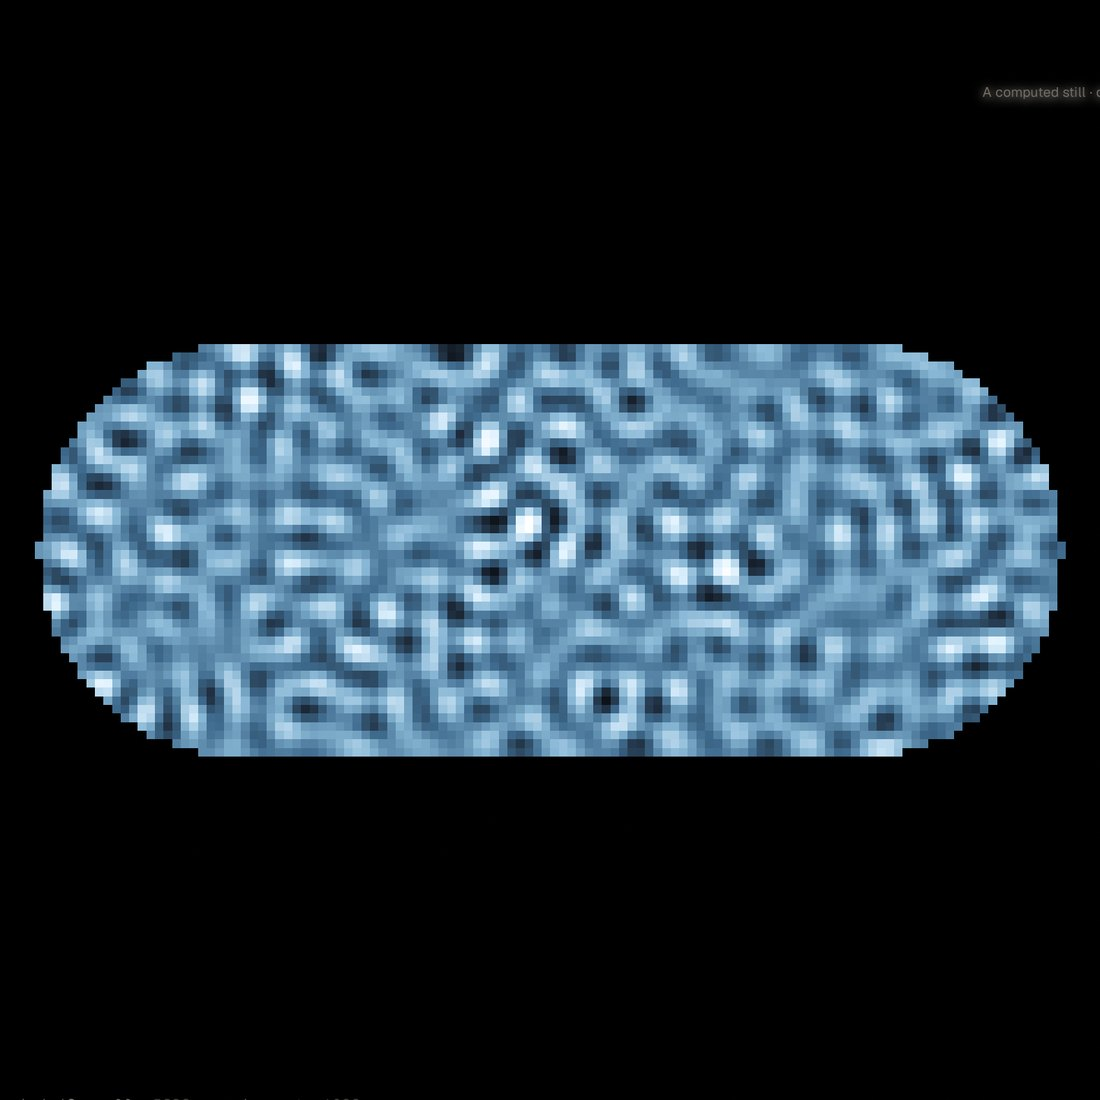
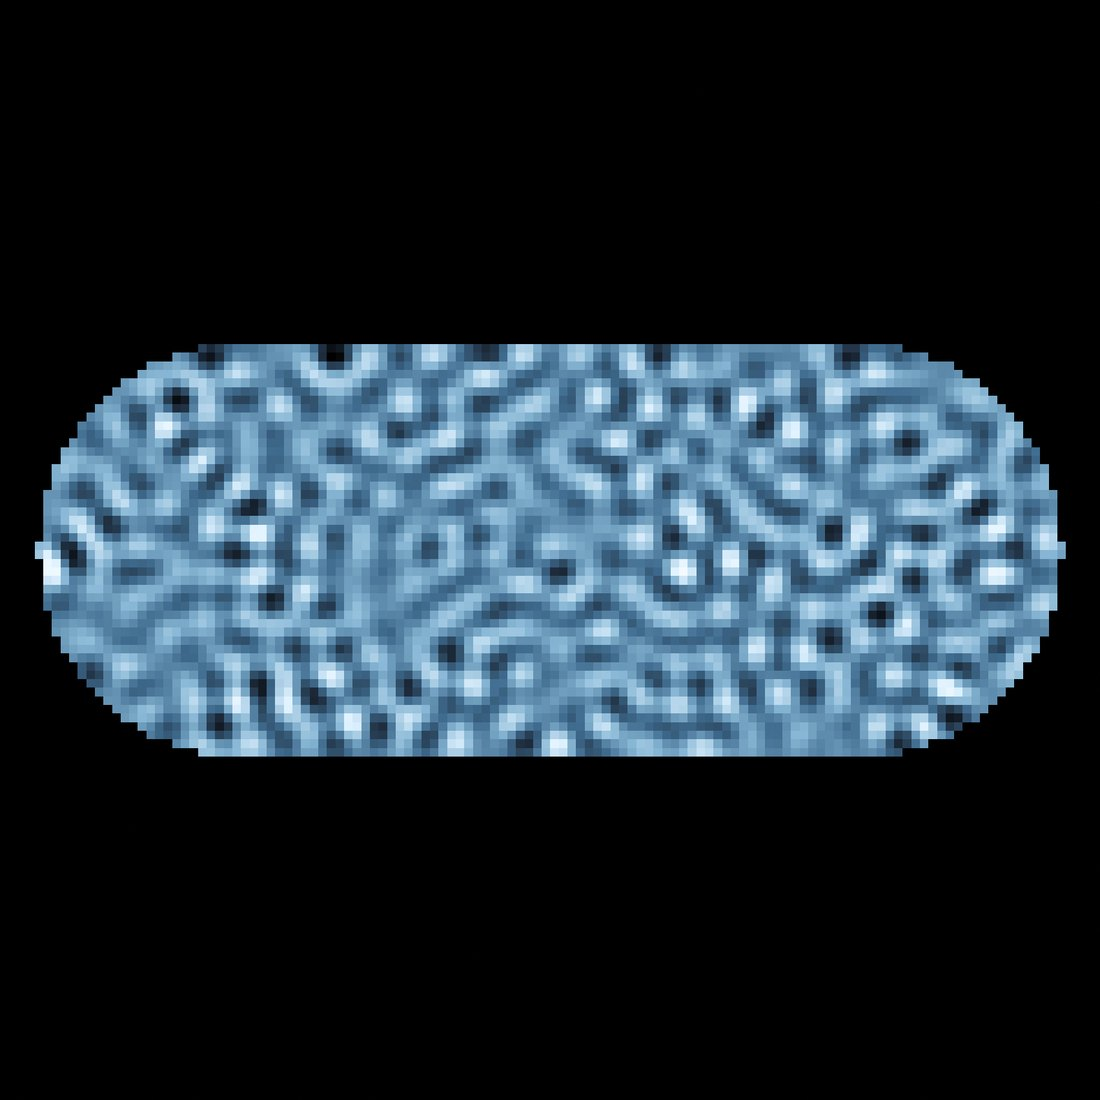
Fix the README gallery: equal tiles, snowflake first, no chrome
Nine plates at the same size. Snowflake sits in the top-left.
Witness overlay is gone from the frames. Pearls dropped; it
read as a black square at thumbnail size.

Changed region(s): [[0.0309, 0.3091, 0.9891, 0.7109], [0.8964, 0.0618, 1.0, 0.0927]]

diff --git a/README.md b/README.md
@@ -5,12 +5,7 @@ Generative art from real scientific simulations.
 One HTML file. Thirty-five pattern-forming systems. A seed that reprints. A hash you can send. A plate you can hang.
 
 <p align="center">
-  <img src="plates/snowflake.jpg" alt="Gravner–Griffeath snow crystal" width="640" />
-</p>
-<p align="center"><sub>Gravner–Griffeath snow crystal. Grown on a hexagonal lattice, not drawn.</sub></p>
-
-<p align="center">
-  <img src="plates/pearls.jpg" width="32%" alt="Indra's pearls" />
+  <img src="plates/snowflake.jpg" width="32%" alt="Gravner–Griffeath snow crystal" />
   <img src="plates/hofstadter.jpg" width="32%" alt="Hofstadter butterfly" />
   <img src="plates/hexagons.jpg" width="32%" alt="Swift–Hohenberg hexagons" />
 </p>
@@ -24,7 +19,8 @@ One HTML file. Thirty-five pattern-forming systems. A seed that reprints. A hash
   <img src="plates/twelve.jpg" width="32%" alt="Lifshitz–Petrich 12-fold quasicrystal" />
   <img src="plates/tilings.jpg" width="32%" alt="Penrose tiling" />
 </p>
-<p align="center"><sub>Indra’s pearls · Hofstadter · Swift–Hohenberg · Berry caustics · Physarum · Cahn–Hilliard · Helmholtz scars · Lifshitz–Petrich 12-fold · Penrose. Frames from the live studio, not stills from a video.</sub></p>
+<p align="center"><sub>Gravner–Griffeath · Hofstadter · Swift–Hohenberg · Berry caustics · Physarum · Cahn–Hilliard · Helmholtz scars · Lifshitz–Petrich 12-fold · Penrose. Frames from the live studio.</sub></p>
+
 
 Every tab is a system that already exists in a paper: Gray–Scott chemistry, Physarum transport, Lenia, Navier–Stokes, Cahn–Hilliard spinodal, Swift–Hohenberg convection, Lifshitz–Petrich 12-fold quasicrystals, Gravner–Griffeath snow crystals, hat and spectre monotiles, Helmholtz scars, optical caustics, and the rest. The governing equations are the medium. Nothing here is a style filter sitting on noise.
 
